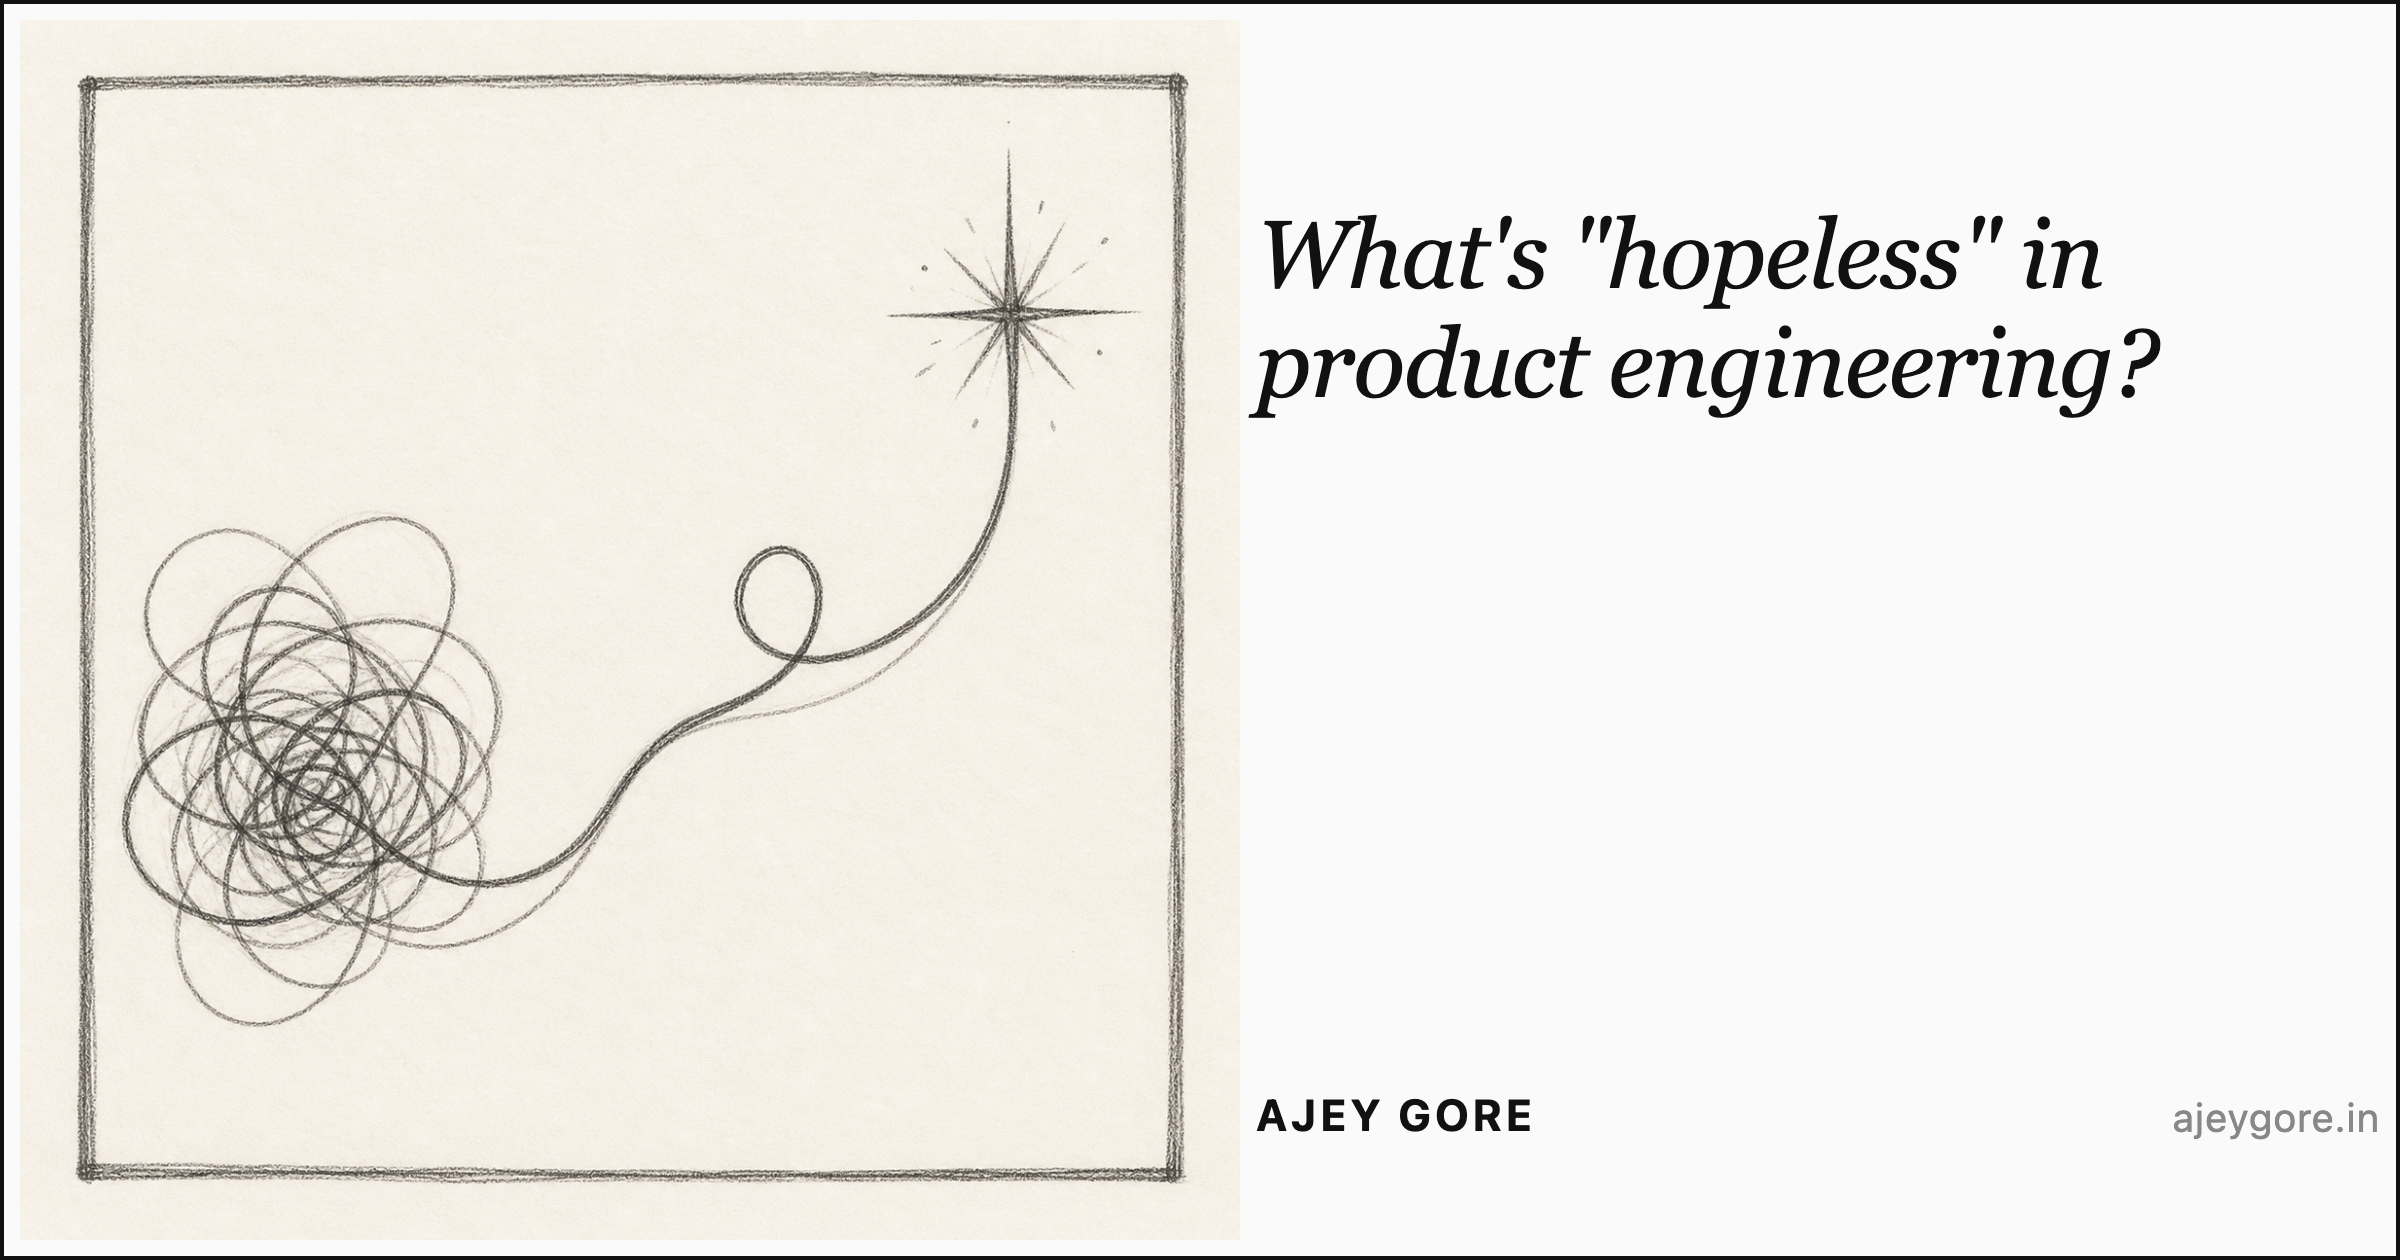
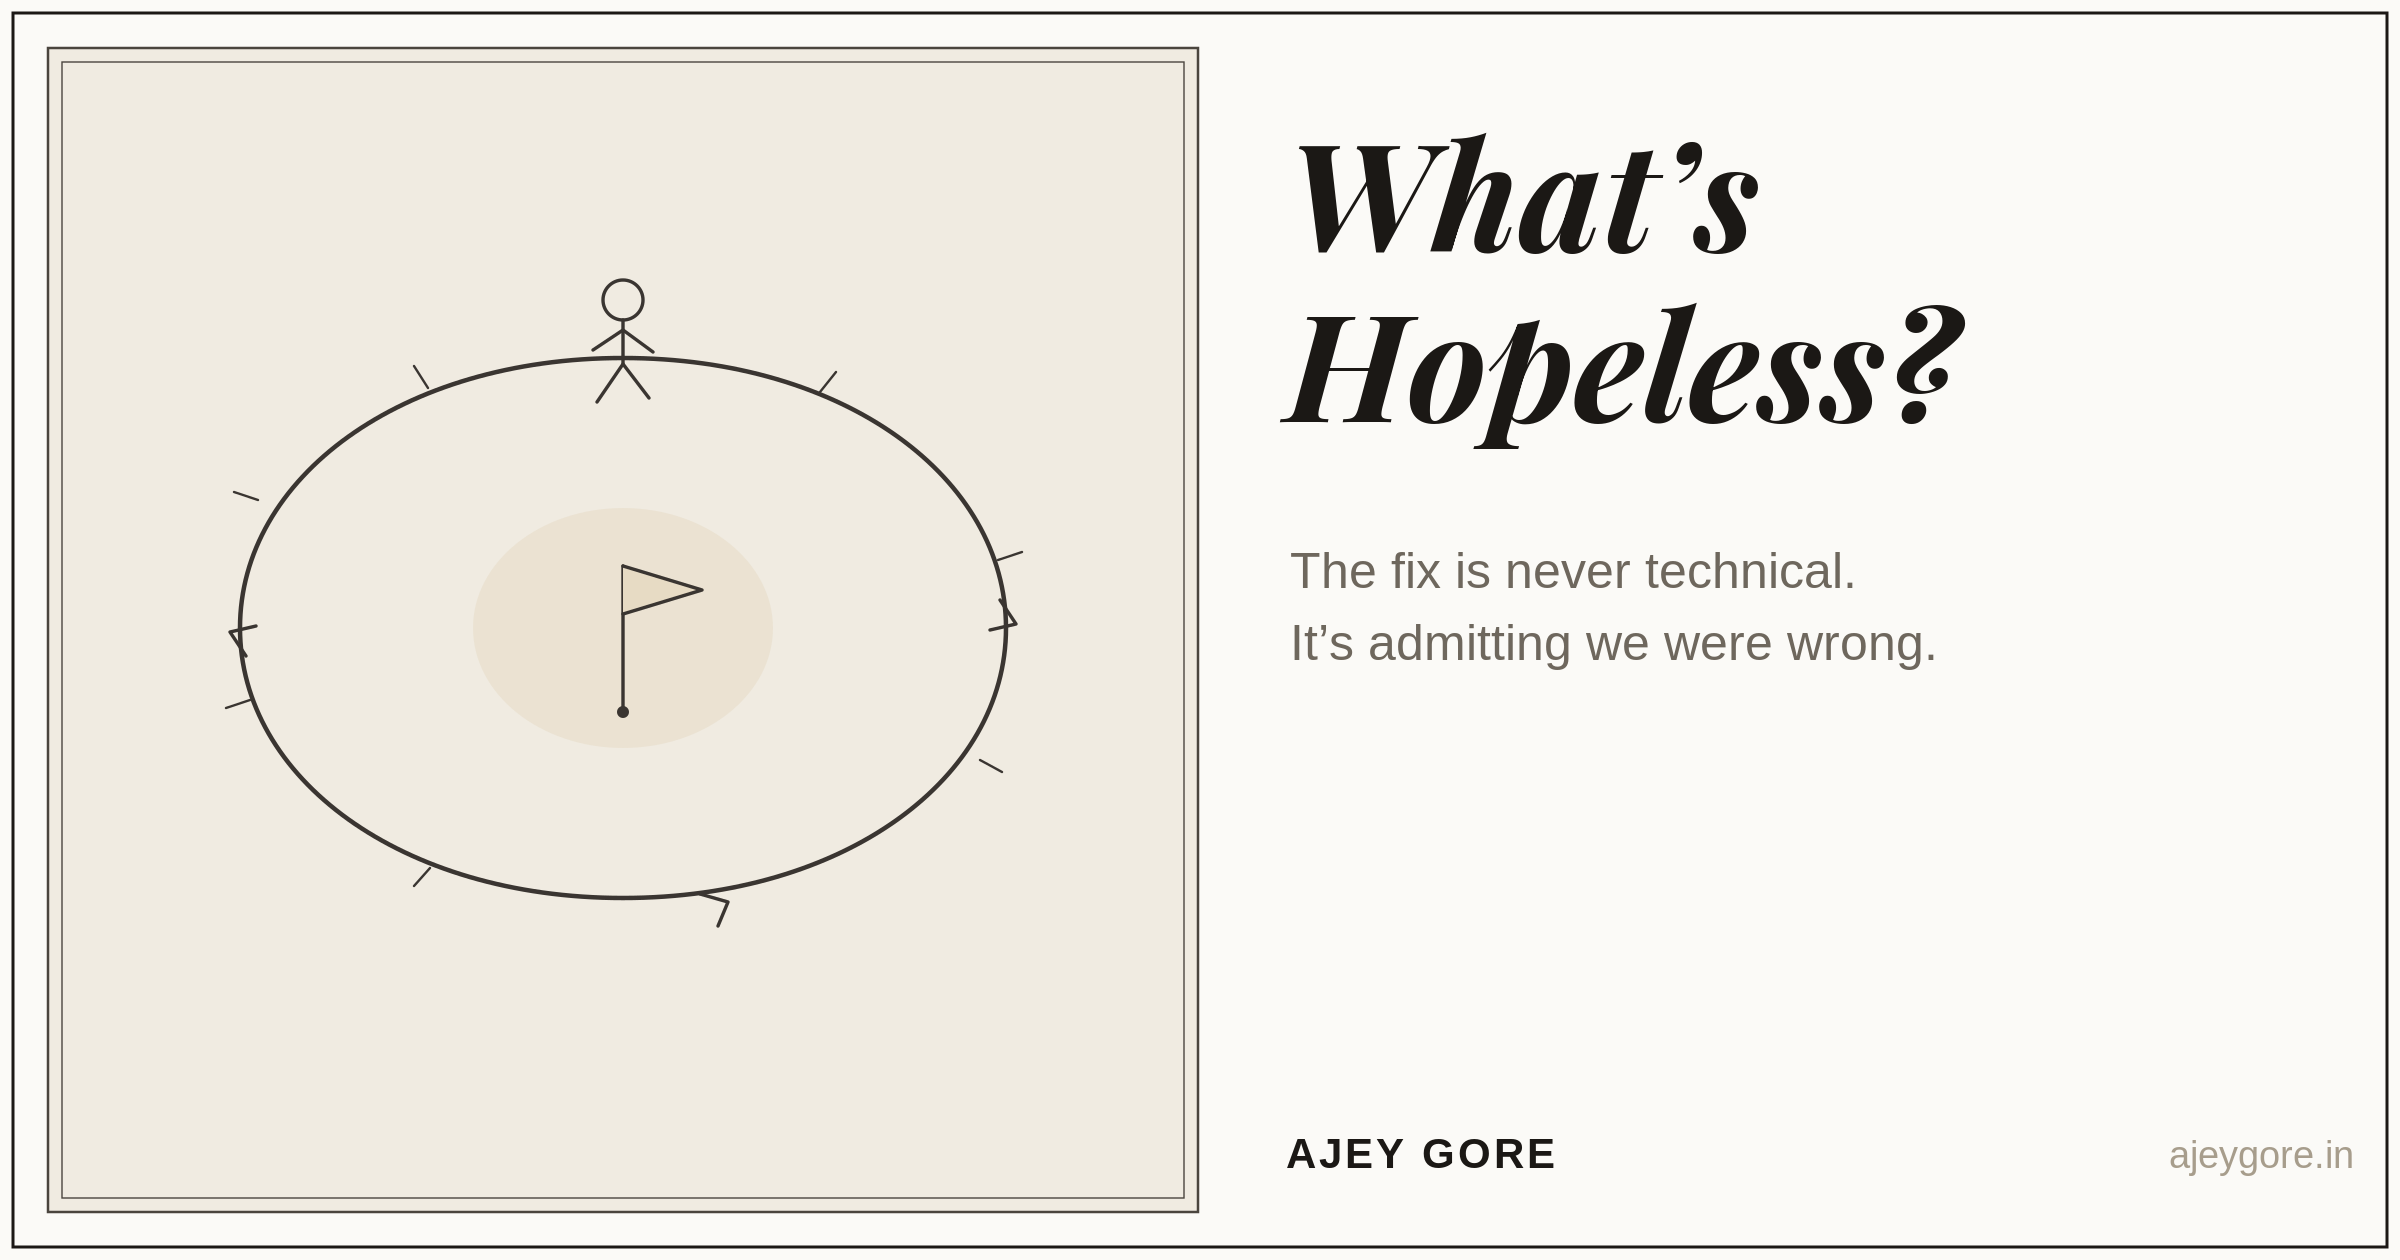
Updated post

diff --git a/collections/_posts/2023-11-09-what's-hopeless-in-product-engineering.md b/collections/_posts/2023-11-09-what's-hopeless-in-product-engineering.md
@@ -4,7 +4,7 @@ title: What's "hopeless" in product engineering?
 published: true
 categories: Essay
 description: "A running list of what's hopeless in product engineering — skipped tests, PR theatre, measuring productivity, managers managing managers — and the comfortable reason we keep doing each one anyway."
-lead_image: blog/hopeless-product-engineering-white-bg.svg
+lead_image: blog/og/what's-hopeless-in-product-engineering.png
 ---
 
 <div class="post-epigraph">